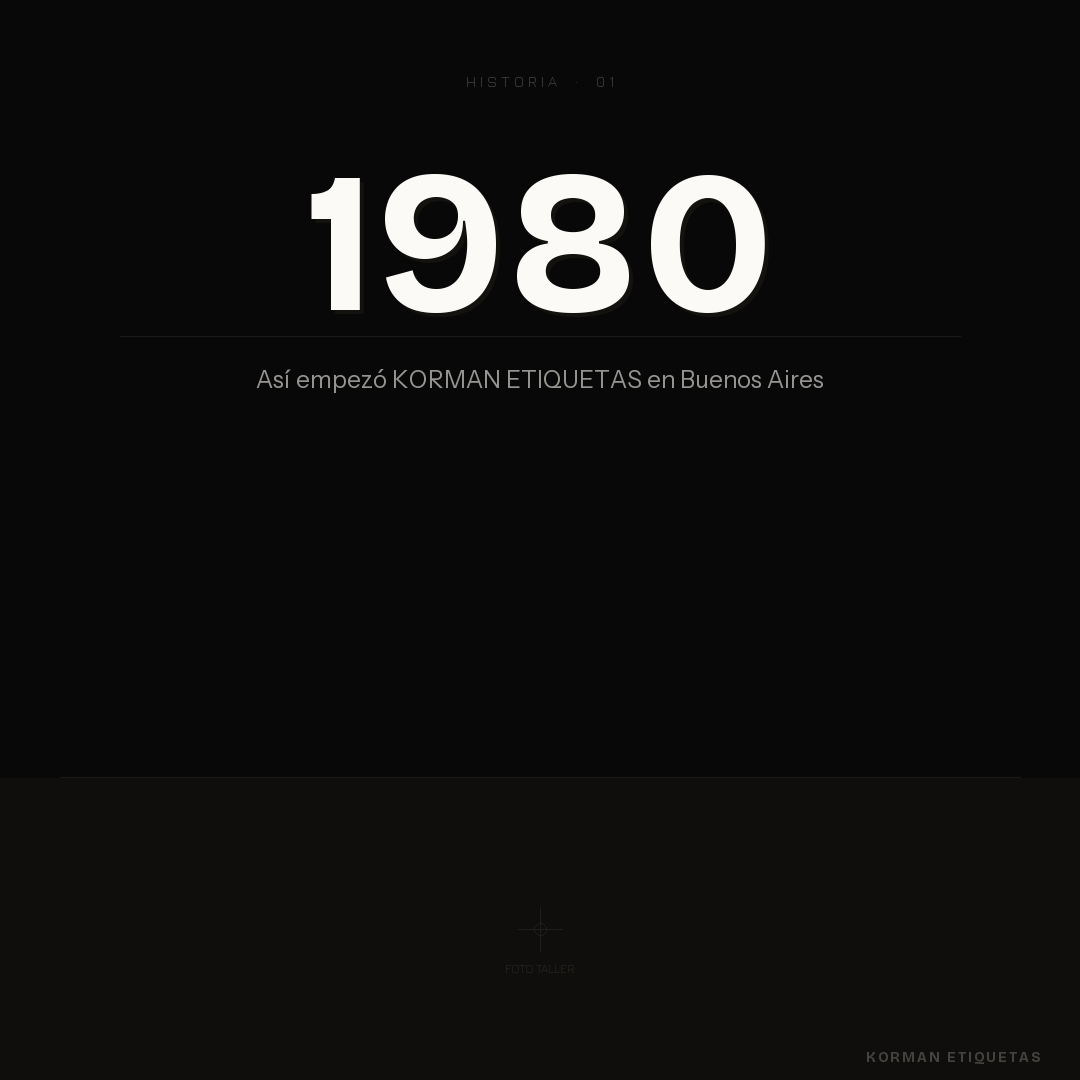
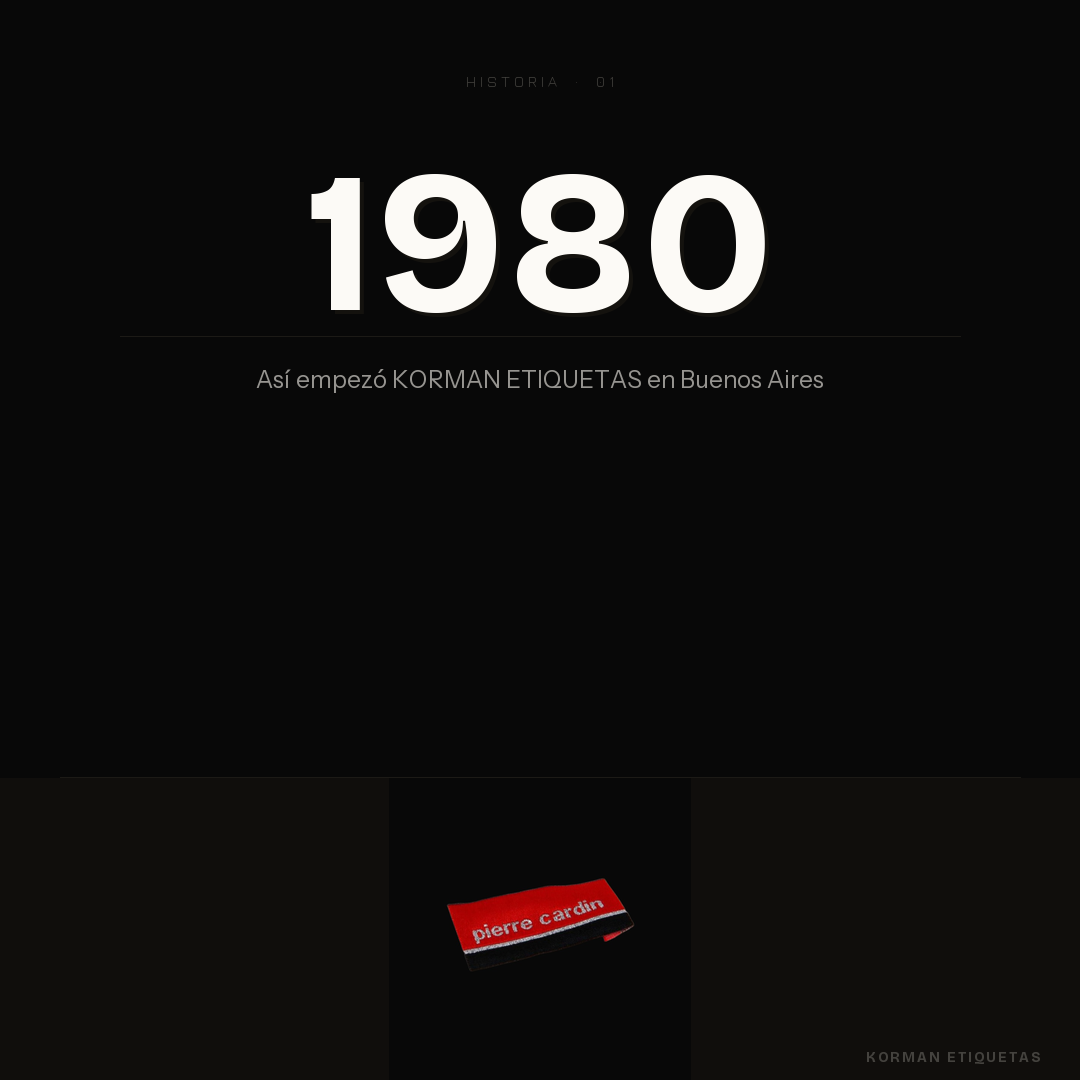
Add real label photos to Instagram posts v4
Replace placeholders with processed label photos:
01-tafeta → nxlevel, 02-alta-def → givenchy, 03-triple → balmain,
04-texturada → camps-abanico, 05-1980 → pierre-cardin, 06-46años → beditorial

Claude-Session: https://claude.ai/code/session_017RDuaEkxS43SZ1xs4UNenw

Changed region(s): [[0.3972, 0.7944, 0.5806, 0.8861]]

diff --git a/generate_posts_v4.py b/generate_posts_v4.py
@@ -68,6 +68,34 @@ def cx_tracked(text, font, draw, tracking=0):
     return (W - tracked_width(draw, text, font, tracking)) // 2
 
 
+FOTOS_DIR = "/home/user/Marketing-y-empresa-/assets/fotos-procesadas/"
+
+def place_photo(img, photo_path, y_start, y_end):
+    """Coloca una foto procesada (fondo negro) en la zona inferior del post."""
+    zone_w = W
+    zone_h = y_end - y_start
+
+    # Fondo de zona
+    zone = Image.new("RGB", (zone_w, zone_h), PHOTO_BG)
+
+    try:
+        ph = Image.open(photo_path).convert("RGB")
+        # Escalar para llenar la zona manteniendo proporción
+        ph_w, ph_h = ph.size
+        scale = min(zone_w / ph_w, zone_h / ph_h)
+        new_w = int(ph_w * scale)
+        new_h = int(ph_h * scale)
+        ph = ph.resize((new_w, new_h), Image.LANCZOS)
+        # Centrar
+        x_off = (zone_w - new_w) // 2
+        y_off = (zone_h - new_h) // 2
+        zone.paste(ph, (x_off, y_off))
+    except Exception as e:
+        print(f"  [warn] foto no encontrada: {e}")
+
+    img.paste(zone, (0, y_start))
+
+
 def draw_photo_placeholder(draw, y_start, y_end, label="FOTO"):
     """Zona de foto: fondo oscuro, cruz central, texto sutil."""
     draw.rectangle([0, y_start, W, y_end], fill=PHOTO_BG)
@@ -111,7 +139,7 @@ def draw_thin_rule(draw, y, x0=60, x1=None):
 # POST TIPO ESTÁNDAR — texto arriba, foto abajo
 # ─────────────────────────────────────────────────────────────────────────────
 
-def make_post_standard(filename, title, subtitle, label, photo_pct=0.52):
+def make_post_standard(filename, title, subtitle, label, photo_pct=0.52, photo_file=None):
     img  = Image.new("RGB", (W, H), BLACK)
     draw = ImageDraw.Draw(img)
 
@@ -161,7 +189,11 @@ def make_post_standard(filename, title, subtitle, label, photo_pct=0.52):
     draw_thin_rule(draw, sep_y - 1)
 
     # ── ZONA DE FOTO ───────────────────────────────────────────────────────
-    draw_photo_placeholder(draw, sep_y, H, "FOTO")
+    if photo_file:
+        place_photo(img, FOTOS_DIR + photo_file, sep_y, H)
+        draw = ImageDraw.Draw(img)  # re-bind draw tras paste
+    else:
+        draw_photo_placeholder(draw, sep_y, H, "FOTO")
 
     # ── MARCA ──────────────────────────────────────────────────────────────
     draw_brand_mark(draw, H - 32)
@@ -226,7 +258,8 @@ def post_historia_1980():
     draw_thin_rule(draw, sep_y - 1)
 
     # Zona foto (taller histórico)
-    draw_photo_placeholder(draw, sep_y, H, "FOTO TALLER")
+    place_photo(img, FOTOS_DIR + "pierre-cardin-negro.jpg", sep_y, H)
+    draw = ImageDraw.Draw(img)
 
     draw_brand_mark(draw, H - 32)
 
@@ -272,7 +305,8 @@ def post_historia_46():
     draw_thin_rule(draw, sep_y - 1)
 
     # Zona foto
-    draw_photo_placeholder(draw, sep_y, H, "FOTO")
+    place_photo(img, FOTOS_DIR + "beditorial-editorial-negro.jpg", sep_y, H)
+    draw = ImageDraw.Draw(img)
 
     draw_brand_mark(draw, H - 32)
 
@@ -290,6 +324,7 @@ make_post_standard(
     subtitle = "Económica  ·  para etiquetas internas",
     label    = "ETIQUETA BORDADA  ·  01",
     photo_pct= 0.55,
+    photo_file= "nxlevel-negro.jpg",
 )
 
 make_post_standard(
@@ -298,6 +333,7 @@ make_post_standard(
     subtitle = "Nítida  ·  colores intensos  ·  la más elegida",
     label    = "ETIQUETA BORDADA  ·  02",
     photo_pct= 0.52,
+    photo_file= "givenchy-denim-negro.jpg",
 )
 
 make_post_standard(
@@ -306,6 +342,7 @@ make_post_standard(
     subtitle = "Mayor relieve  ·  presencia  ·  efecto premium",
     label    = "ETIQUETA BORDADA  ·  03",
     photo_pct= 0.52,
+    photo_file= "balmain-cadena-negro.jpg",
 )
 
 make_post_standard(
@@ -314,6 +351,7 @@ make_post_standard(
     subtitle = "Relieve especial  ·  para marcas que se diferencian",
     label    = "ETIQUETA BORDADA  ·  04",
     photo_pct= 0.52,
+    photo_file= "camps-1983-abanico-negro.jpg",
 )
 
 post_historia_1980()
